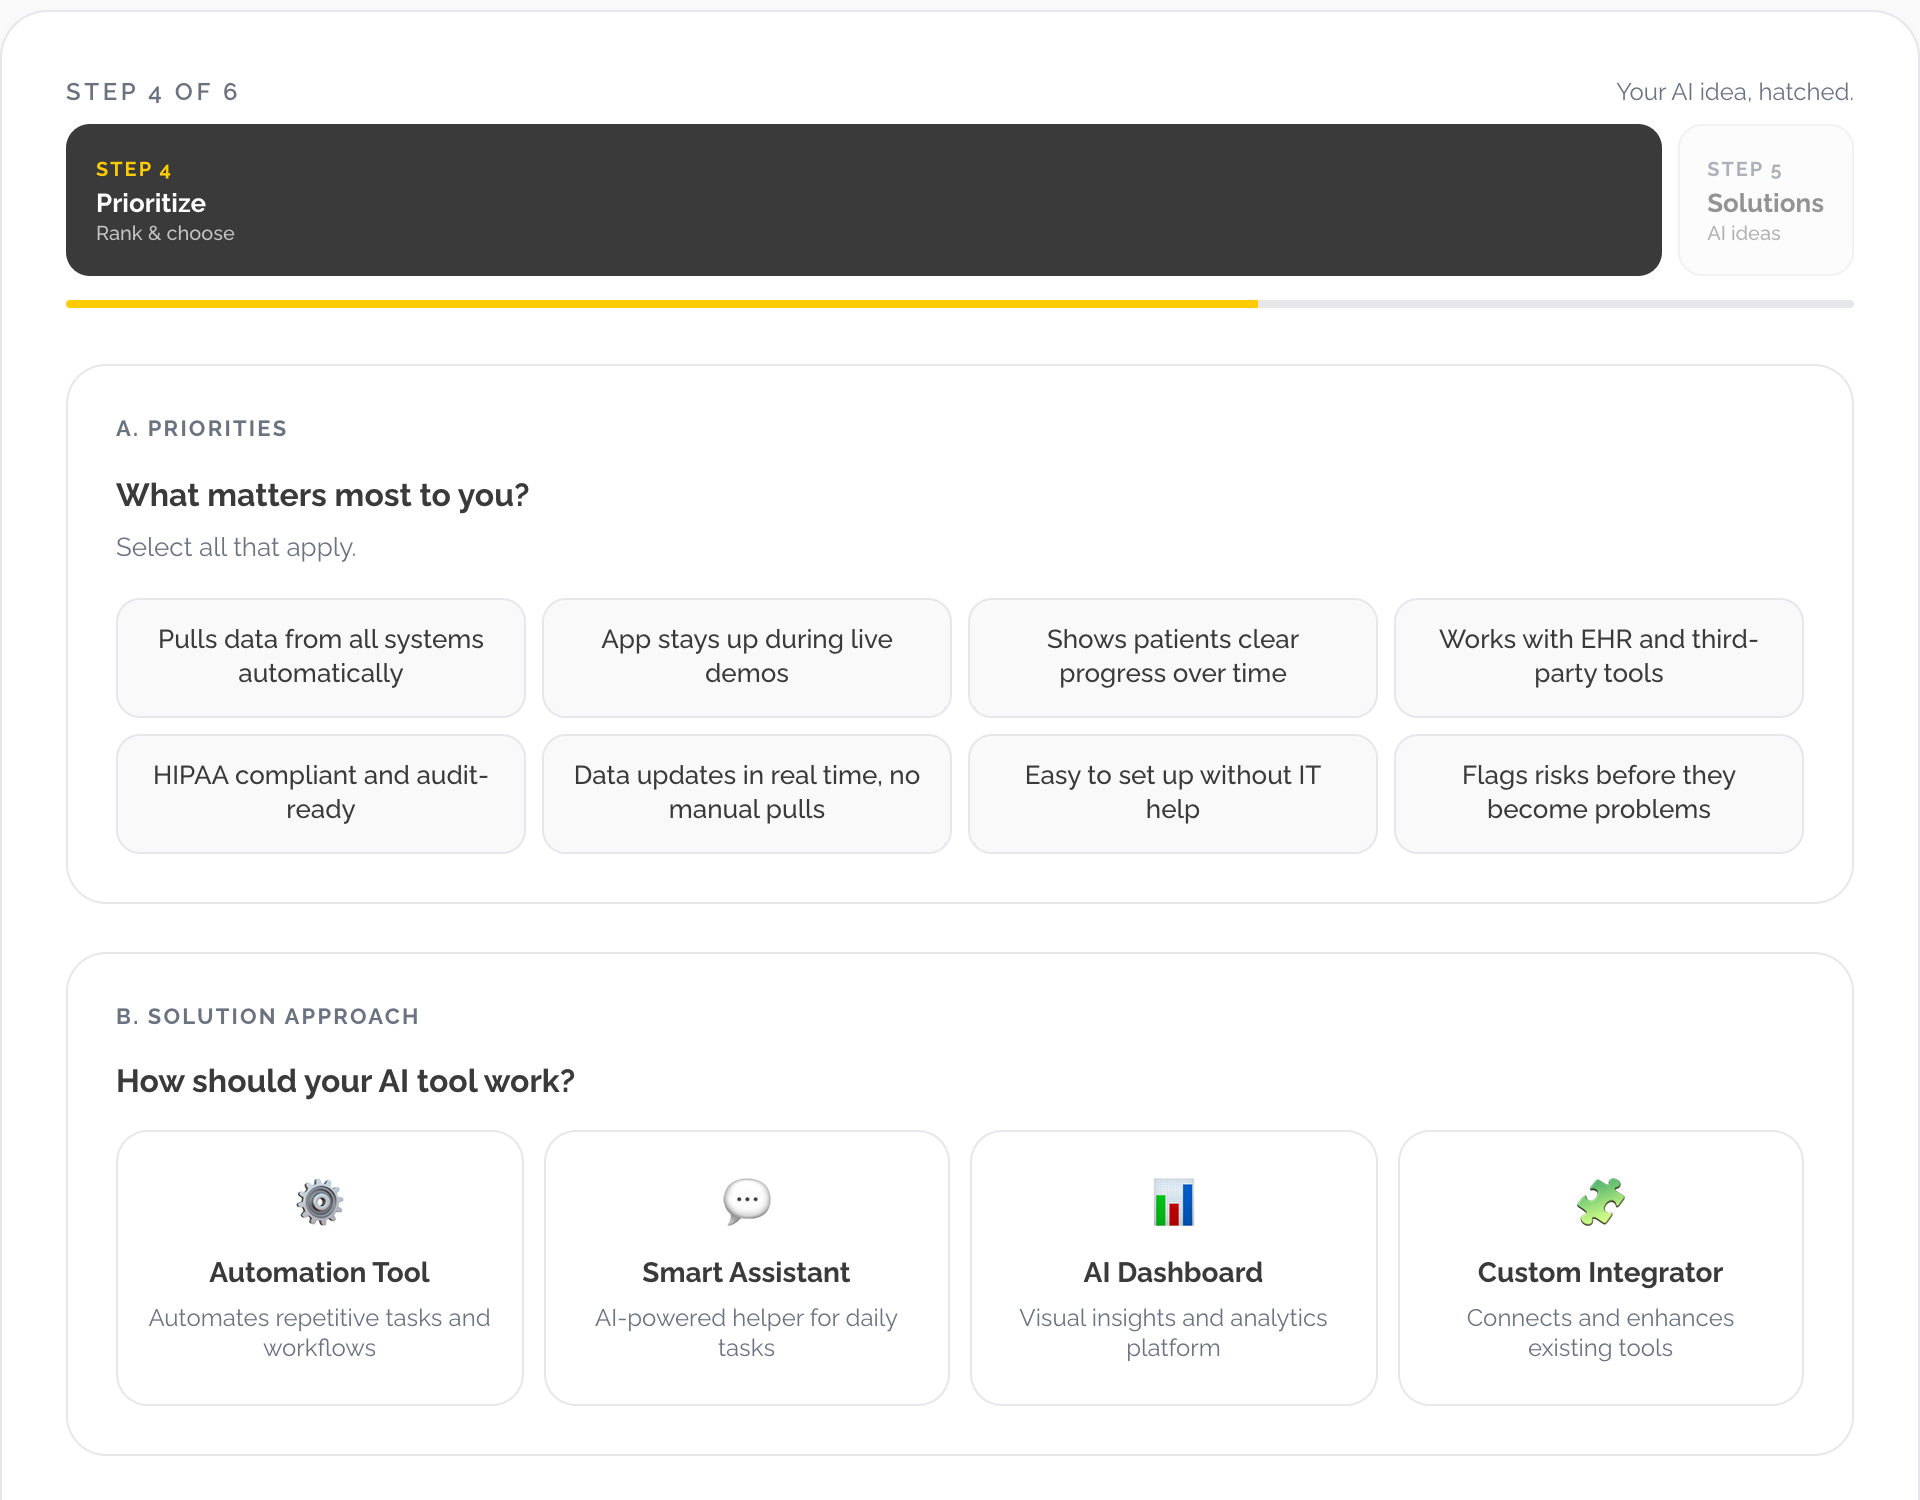
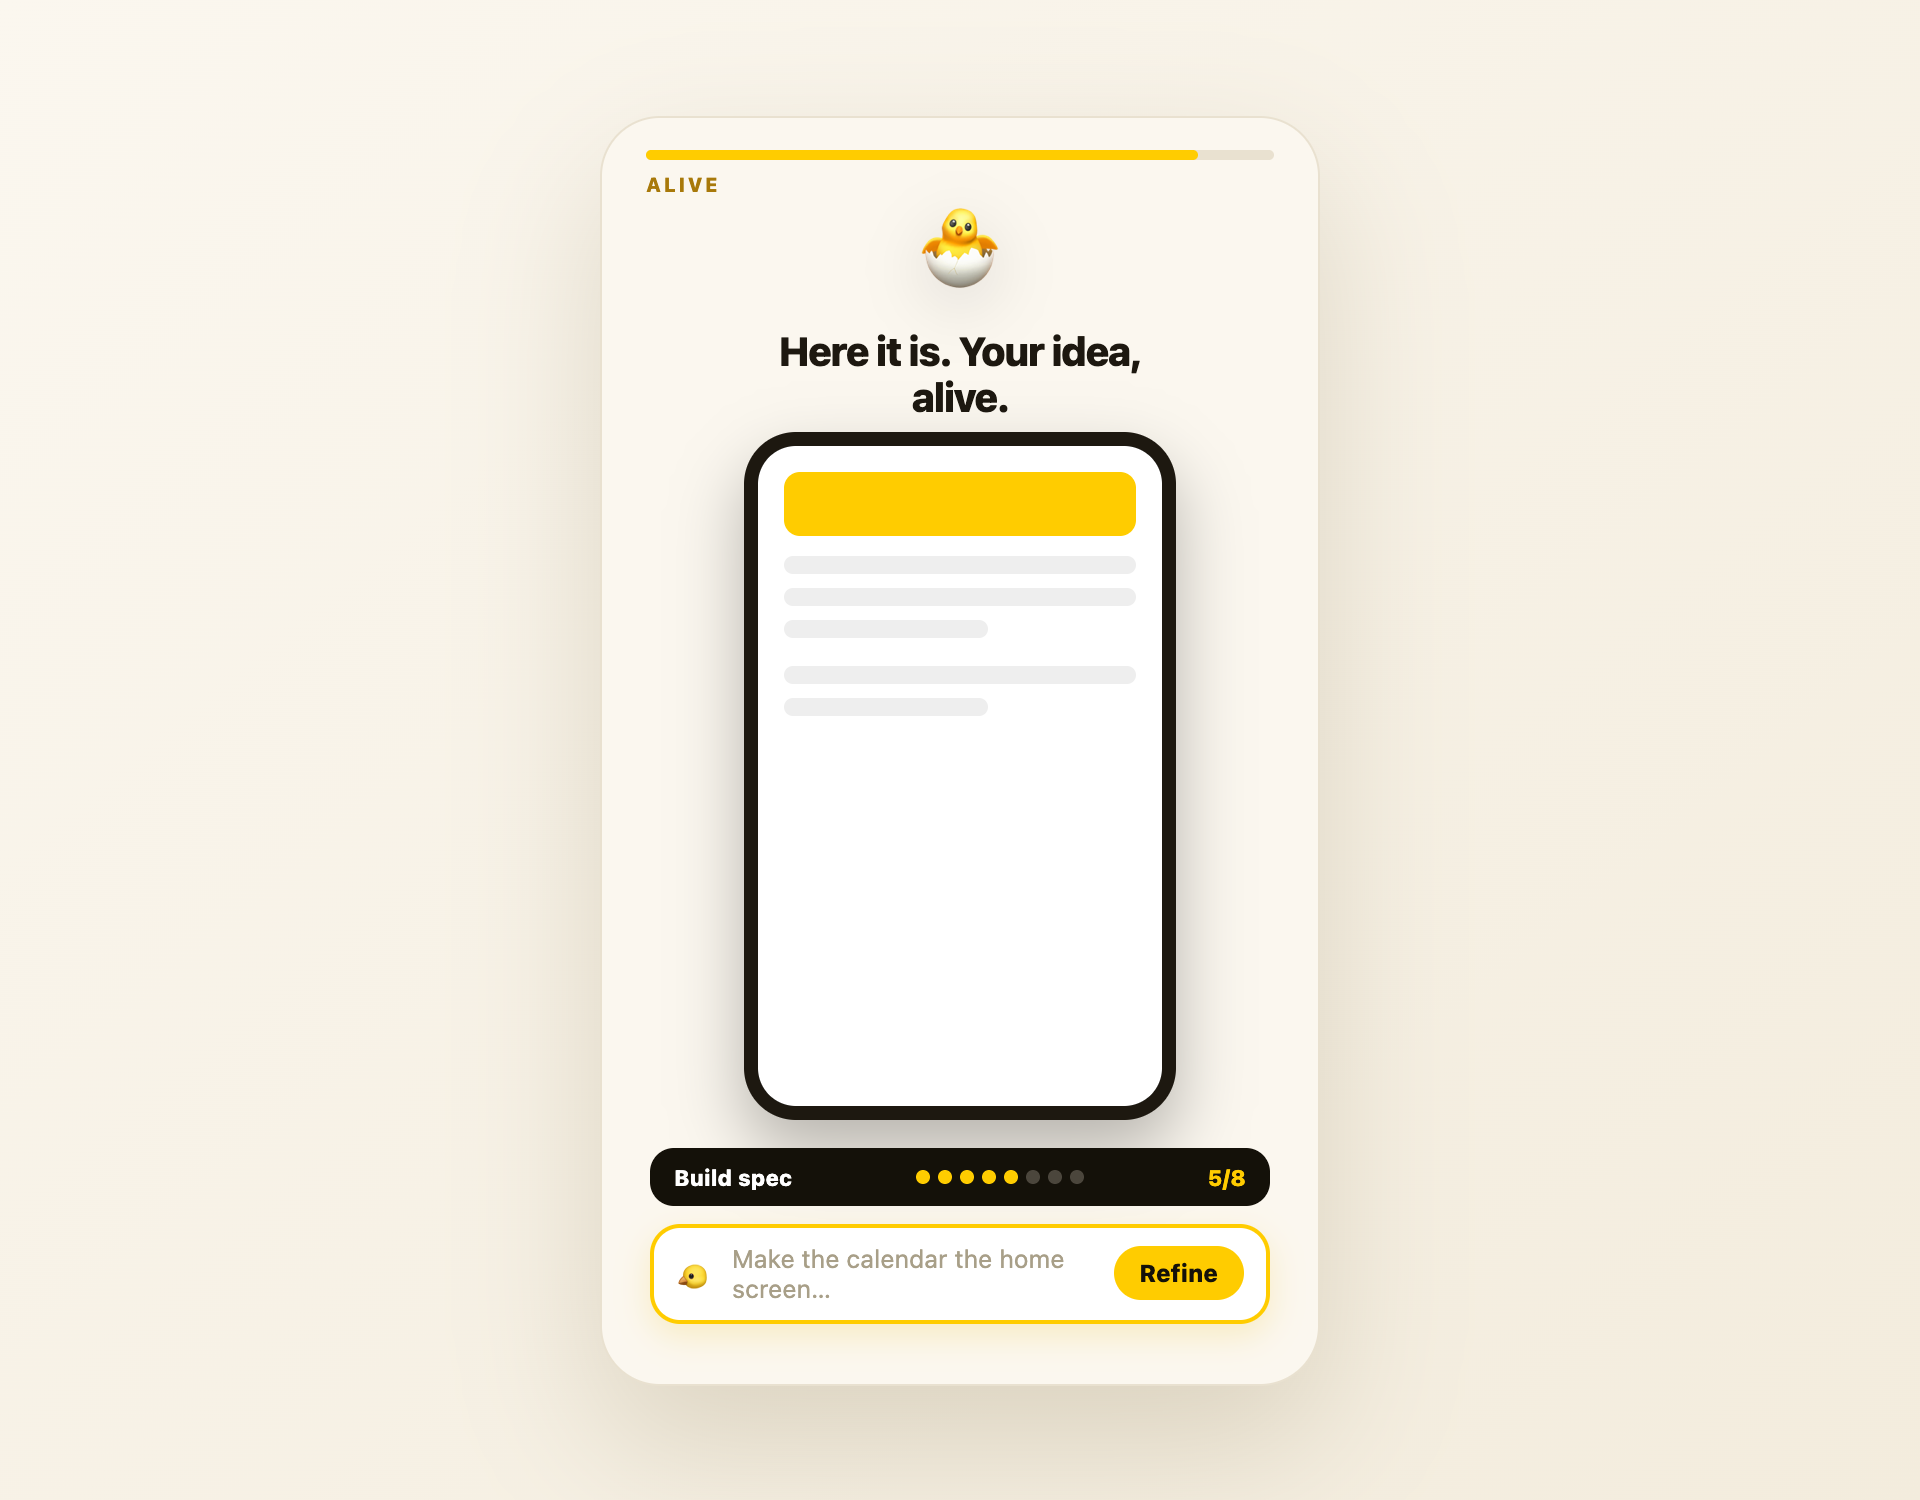
site: sync Home to the live journey (fork, voice, preview)
Home was a version behind — idea-only, work-path-only, no fork/voice/
preview. Rewrites the highest-traffic page to match the shipped app:

- Hero: fork eyebrow ('Fix something at work, or build an idea'),
  talk-first + live-preview subhead, 'Talk or type. No idea needed' band
- How it works: 'Talk it through. Watch it hatch.' with new steps
  (say what's slowing you down / react to directions / see it built +
  refine / walk out with your prompt) — drops the stale 'pick your
  industry, 3-question chat, pick the shape'
- Refresh how-1/2/3 screenshots to the new UI (mic hero, 3 directions,
  see-it-alive preview)
- FAQ + AEO schema: add the fork, 'no idea needed' spark, live preview

diff --git a/src/pages/Home.tsx b/src/pages/Home.tsx
@@ -39,10 +39,10 @@ const deliverables = [
 ];
 
 const steps = [
-  { n: '1', title: 'Say what slows you down', desc: 'Pick your industry. Have a 3-question chat. Tap an answer or type your own.', img: '/images/how-1.png' },
-  { n: '2', title: 'Point at the win', desc: 'Choose what “great” looks like from a few ready-made options. No essays.', img: '/images/how-2.png' },
-  { n: '3', title: 'Pick the shape', desc: 'Flag what matters most (speed, compliance, integrations), then pick the kind of tool: an automation, a smart assistant, a dashboard, or an integrator.', img: '/images/how-3.png' },
-  { n: '4', title: 'Get your prompt', desc: 'Copy your first prompt straight into the recommended tool and go. You also walk away with a one-page brief to share.', img: '/images/how-4.png' },
+  { n: '1', title: 'Say what’s slowing you down', desc: 'Tap the mic and just talk, or pick from ready-made cards. No blank page, no essays. Fixing something at work or building an idea, it starts the same way.', img: '/images/how-1.png' },
+  { n: '2', title: 'React to a few directions', desc: 'Henway proposes what “great” looks like and a few ways to build it. You just say what fits. No need to know the options up front.', img: '/images/how-2.png' },
+  { n: '3', title: 'See it built, then shape it', desc: 'Watch a live preview of your idea come to life, then refine it in plain words. “Make it simpler.” Every change sharpens the build.', img: '/images/how-3.png' },
+  { n: '4', title: 'Walk out with your prompt', desc: 'Your copy-paste first prompt, the right tool to build on, and a one-page brief to share. Paste it in and go.', img: '/images/how-4.png' },
 ];
 
 const tiers = [
@@ -53,8 +53,8 @@ const tiers = [
 ];
 
 const faqs = [
-  { q: 'What is Henway?', a: 'Henway is an AI product-discovery tool. In about seven minutes it tells you which AI build platform to use for your idea and writes your first prompt, plus a one-page brief you can share.' },
-  { q: 'Who is it for?', a: 'Founders and solo builders with an idea, non-technical operators, and consultants or agencies who scope AI builds for clients. If you can describe your problem in plain words, you can use it.' },
+  { q: 'What is Henway?', a: 'Henway is an AI product-discovery tool. In about seven minutes it finds the problem worth solving, shows you a live preview of your idea, tells you which AI build platform to use, and writes your first prompt, plus a one-page brief you can share.' },
+  { q: 'Who is it for?', a: 'Anyone with something worth solving: people fixing a problem at work, founders building an idea they’ve been sitting on, non-technical operators, and consultants or agencies who scope AI builds for clients. No idea in hand? It’ll show you what’s newly possible. If you can talk about your problem in plain words, you can use it.' },
   { q: 'Do I need to be technical?', a: 'No. You bring the idea in plain language. Henway handles the part where you’d normally need to know the tools.' },
   { q: 'Which build tools can it recommend?', a: 'A growing set of build platforms, including Lovable, Base44, Bolt, v0 by Vercel, Replit Agent, Google AI Studio, Rork, FlutterFlow, Bubble, Glide, Cursor, Claude Code, GitHub Copilot, and IBM Bob.' },
   { q: 'How long does it take?', a: 'About seven minutes, start to finish.' },
@@ -145,7 +145,7 @@ export default function Home() {
     const ld = document.createElement('script');
     ld.type = 'application/ld+json';
     ld.text = JSON.stringify([
-      { '@context': 'https://schema.org', '@type': 'SoftwareApplication', name: 'Henway', applicationCategory: 'BusinessApplication', operatingSystem: 'Web', url: 'https://app.henwayai.com', description: 'Henway is an AI product-discovery tool. In about seven minutes it tells you which AI build platform to use for your idea and writes your first prompt, plus a one-page brief.', offers: { '@type': 'Offer', price: '0', priceCurrency: 'USD', description: 'Free to start. Paid plans from $29/month.' } },
+      { '@context': 'https://schema.org', '@type': 'SoftwareApplication', name: 'Henway', applicationCategory: 'BusinessApplication', operatingSystem: 'Web', url: 'https://app.henwayai.com', description: 'Henway is an AI product-discovery tool. In about seven minutes it finds the problem worth solving, shows you a live preview of your idea, tells you which AI build platform to use, and writes your first prompt, plus a one-page brief.', offers: { '@type': 'Offer', price: '0', priceCurrency: 'USD', description: 'Free to start. Paid plans from $29/month.' } },
       { '@context': 'https://schema.org', '@type': 'FAQPage', mainEntity: faqs.map((f) => ({ '@type': 'Question', name: f.q, acceptedAnswer: { '@type': 'Answer', text: f.a } })) },
     ]);
     document.head.appendChild(ld);
@@ -157,14 +157,14 @@ export default function Home() {
       {/* Hero — bridge / translation-layer positioning */}
       <section id="hero" className="section-container grid lg:grid-cols-2 gap-12 lg:gap-16 items-center min-h-[80vh]">
         <motion.div initial={{ opacity: 0, y: 20 }} animate={{ opacity: 1, y: 0 }} transition={{ duration: 0.8 }} className="text-center lg:text-left">
-          <div className="arch-label arch-label-muted !text-center lg:!text-left">Idea in, build-ready out</div>
+          <div className="arch-label arch-label-muted !text-center lg:!text-left">Fix something at work, or build an idea</div>
           <h1 className="mb-6">Turn what you already know into what AI can build.</h1>
           <p className="text-xl md:text-2xl mb-4 text-henway-charcoal/80 max-w-xl mx-auto lg:mx-0">
-            Describe your idea in plain words. Henway picks the right tool to build it and writes your first
-            prompt, ready to paste in.
+            Talk it through in plain words. Henway finds the problem worth solving, shows you a live preview,
+            and hands you the first prompt plus the right tool to build it.
           </p>
           <p className="text-lg md:text-xl font-bold text-black mb-8">
-            <span className="bg-henway-yellow/50 px-1.5 py-0.5 rounded box-decoration-clone">7 minutes. No code. 10+ build tools.</span>
+            <span className="bg-henway-yellow/50 px-1.5 py-0.5 rounded box-decoration-clone">Talk or type. No code. No idea needed to start.</span>
           </p>
           <div className="flex flex-col sm:flex-row items-center justify-center lg:items-start lg:justify-start gap-4">
             <StartButton className="btn-yellow w-full sm:w-auto">Start free</StartButton>
@@ -195,7 +195,7 @@ export default function Home() {
         <div className="section-container relative z-10">
           <div className="text-center mb-16">
             <div className="arch-label arch-label-muted">How it works</div>
-            <h2 className="mb-3">A short chat. A clear answer.</h2>
+            <h2 className="mb-3">Talk it through. Watch it hatch.</h2>
             <p className="text-xl text-henway-charcoal/60 flex items-center justify-center gap-2">
               <Clock className="w-5 h-5 text-henway-yellow" /> About 7 minutes, start to finish.
             </p>
@@ -437,7 +437,7 @@ export default function Home() {
       <section className="relative overflow-hidden bg-henway-charcoal text-white">
         <div className="section-container text-center max-w-3xl relative z-10">
           <h2 className="text-white text-4xl md:text-5xl mb-6">Your idea is one conversation away from buildable.</h2>
-          <p className="text-xl text-white/70 mb-10">Bring the idea you’ve been sitting on. Leave knowing what to build it with, and what to type first.</p>
+          <p className="text-xl text-white/70 mb-10">Bring the thing you keep wishing was easier. Leave knowing what to build it with, and what to type first.</p>
           <div className="flex flex-col sm:flex-row items-center justify-center gap-4">
             <StartButton className="btn-yellow w-full sm:w-auto">Start free</StartButton>
             <Link to="/studio" className="w-full sm:w-auto border-2 border-white/30 text-white font-bold rounded-full px-8 py-3 hover:bg-white/10 transition-colors">Have Us Build It</Link>